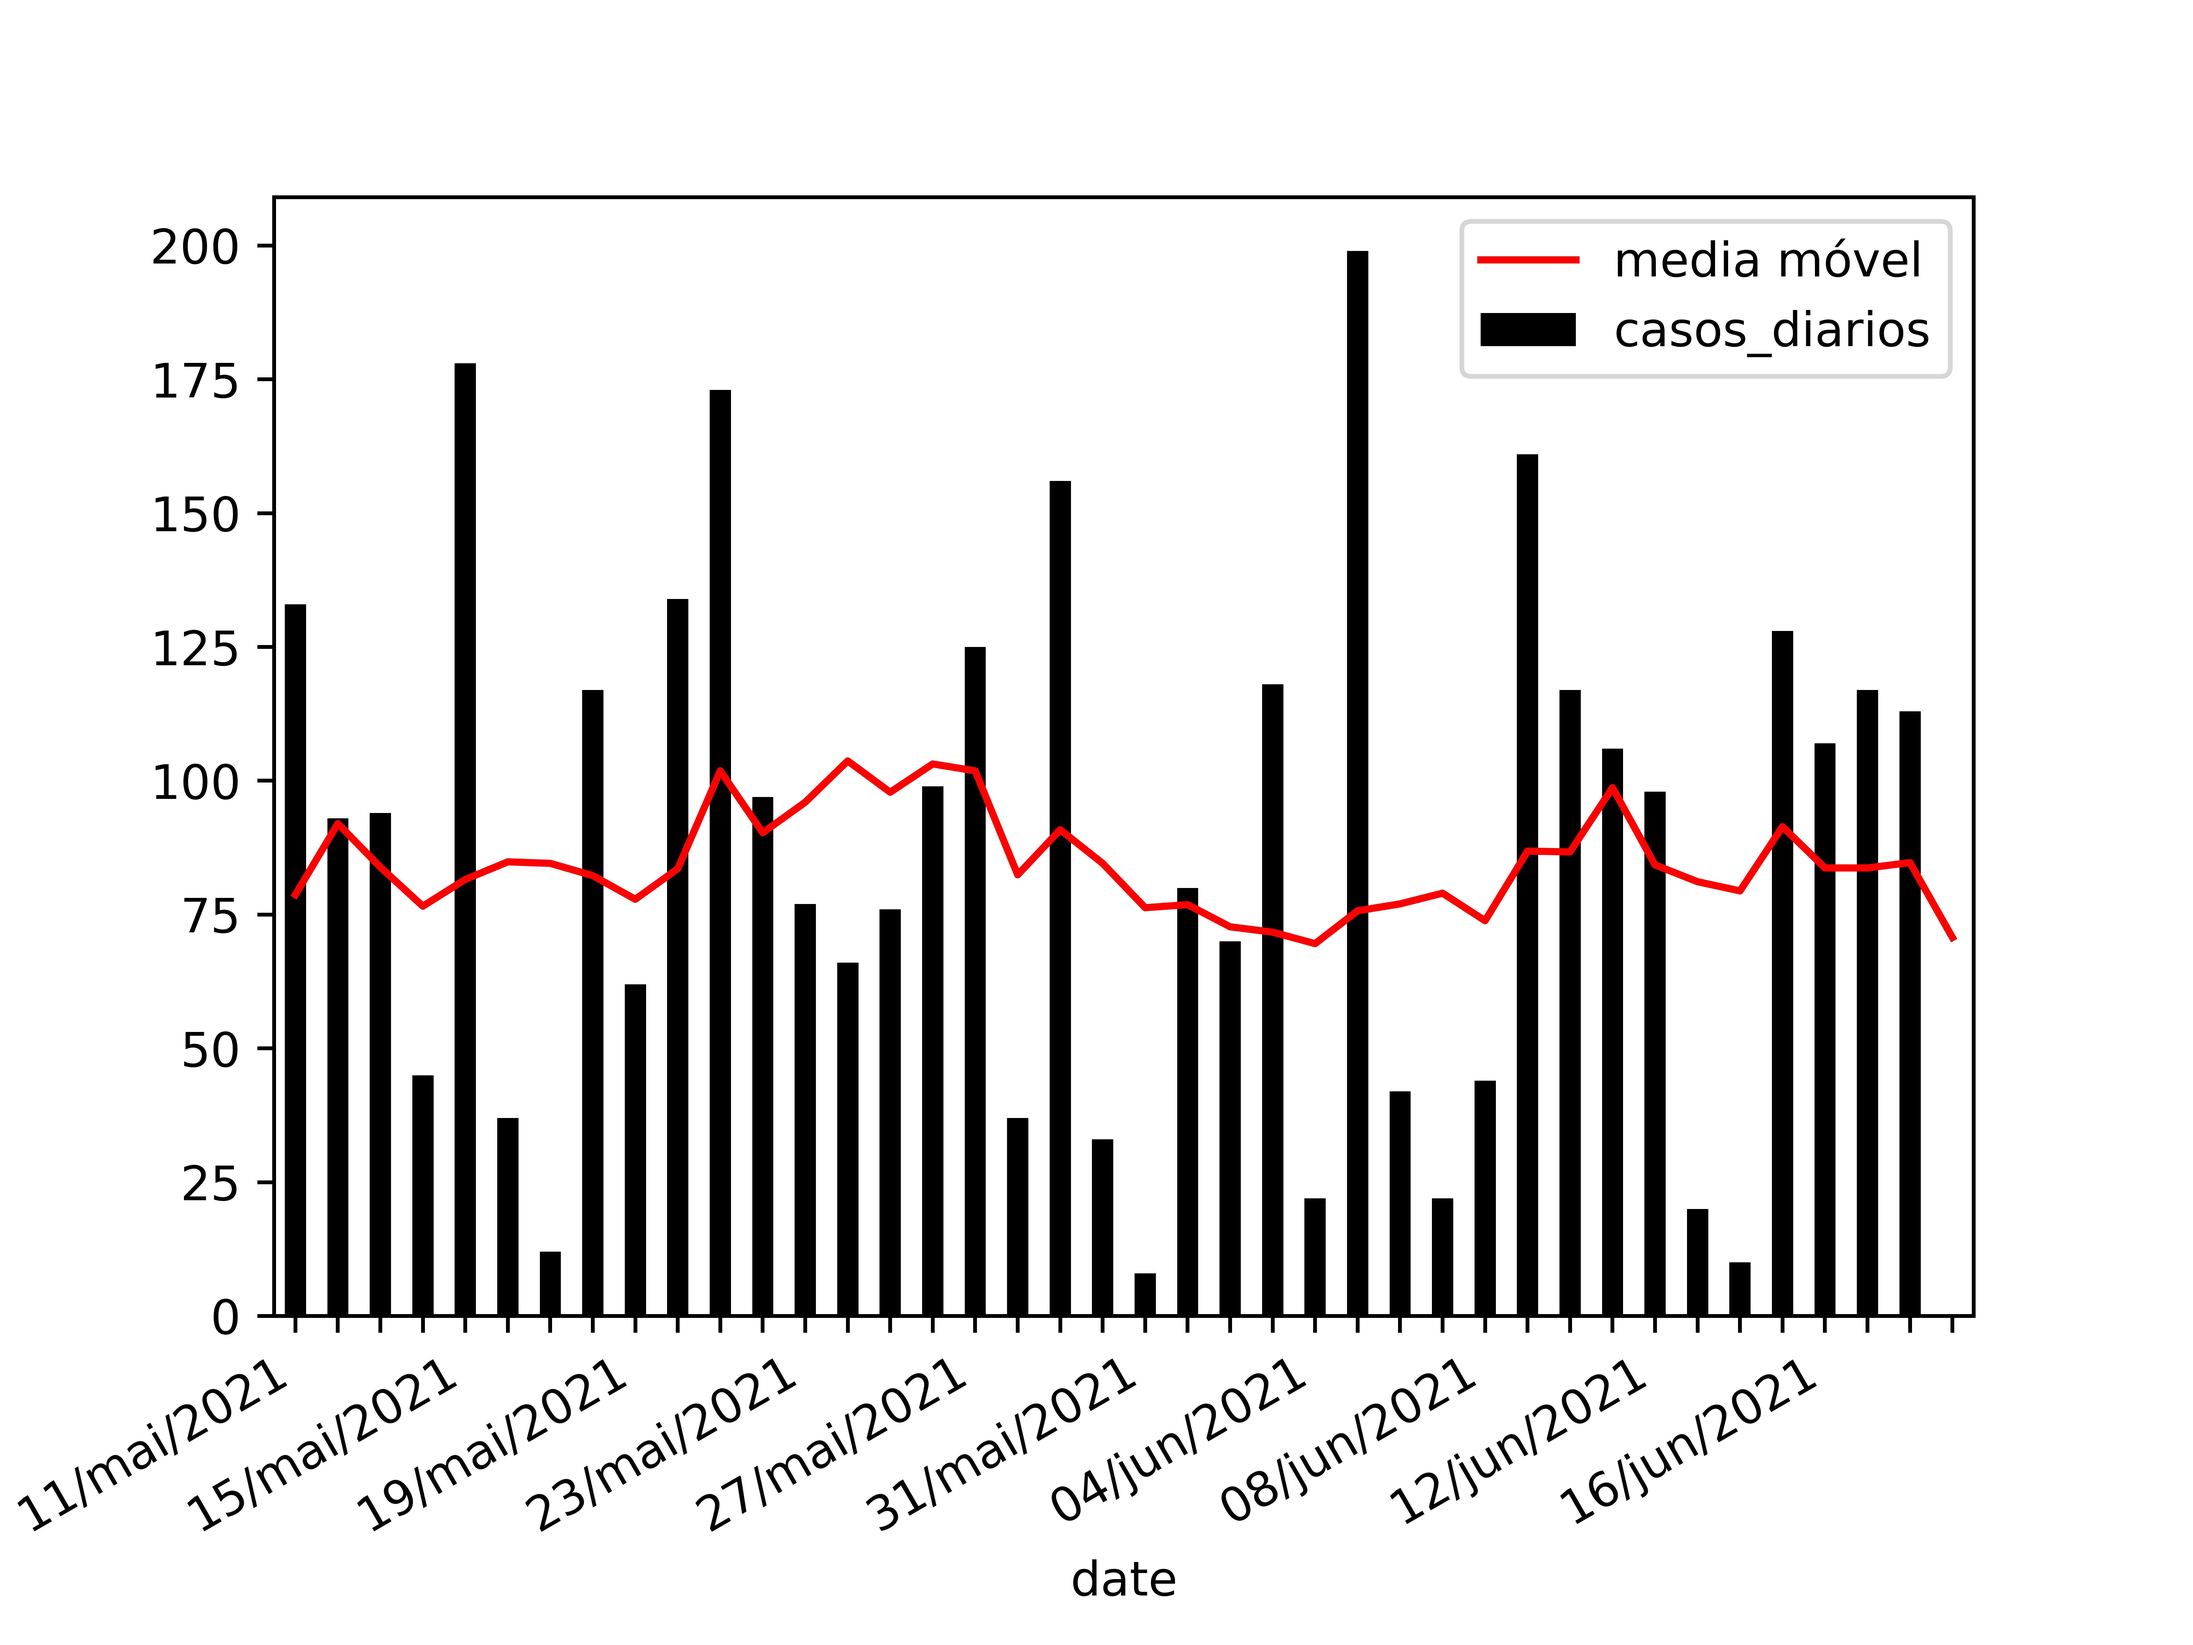
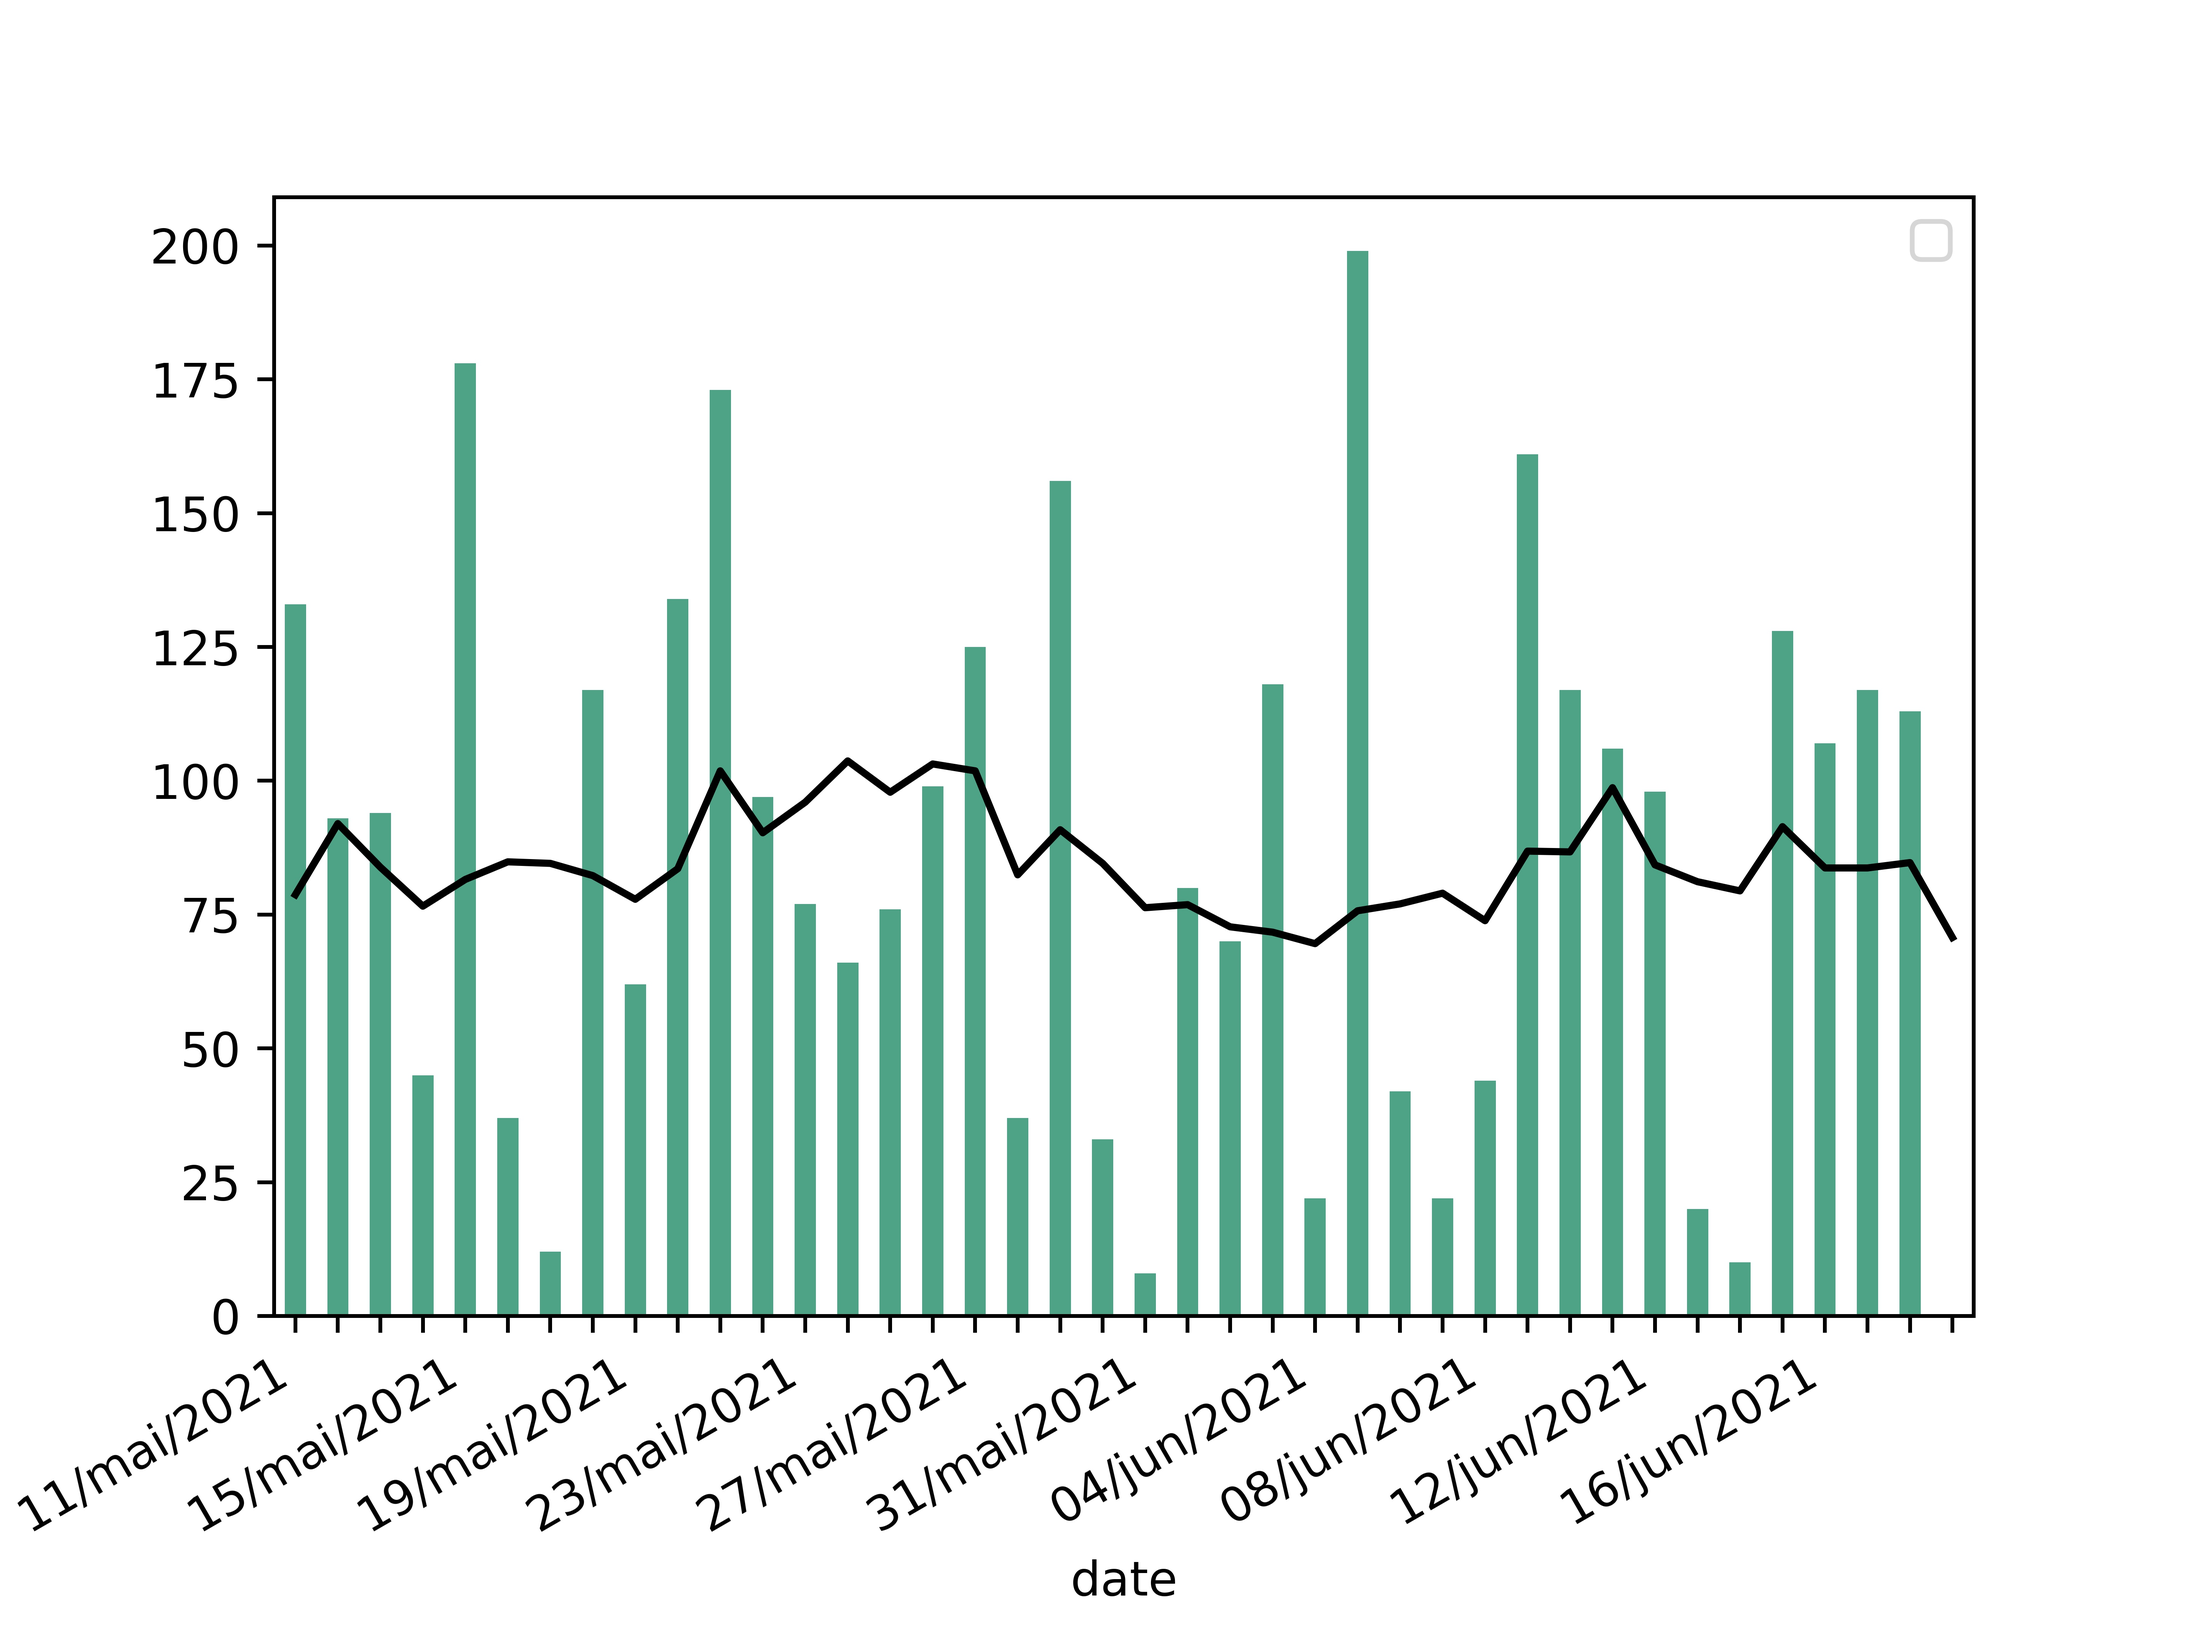
deixando a API arrumadinha

Changed region(s): [[0.125, 0.1562, 0.9062, 0.8125], [0.6562, 0.125, 0.9062, 0.2188]]

diff --git a/covidbr/get_data/work_data.py b/covidbr/get_data/work_data.py
@@ -7,9 +7,6 @@ from covidbr.statistical_functions.bases import mov_average, per_size,percent_ba
 import pandas as pd
 import numpy as np
 import os
-from PIL import ImageFont
-from PIL import ImageDraw 
-from PIL import Image
 
 
 #api_io = login_io.API_io
@@ -130,75 +127,4 @@ class data_from_city:
         return self.media_movel_cases
 
 
-    def create_painel(self,limit_period=15):
-        size = limit_period
-
-        img = Image.open("painel_covid.jpg").convert('RGB')
-        draw = ImageDraw.Draw(img)
-        ## adding date update in the image ##
-        font = ImageFont.truetype("arial_unicode.ttf",18)
-        draw.text((150,150),self.date[-1],'#8b9bae',font=font)
-        ## adding the name city ##
-        font = ImageFont.truetype("arial_unicode.ttf",18)
-        draw.text((35,200),f'Cidade: {self.city} {self.state}','#8b9bae',font)
-        
-        ### creating the painel imagefor deaths ###
-        font = ImageFont.truetype("arial_unicode.ttf", 40)
-        draw.text((460, 320),self.all_deaths_string,'#8e43b5',font=font)
-        ## 24h ##
-        font = ImageFont.truetype("arial_unicode.ttf", 20)
-        draw.text((700, 245),' 24h','#8e43b5',font=font)
-        font = ImageFont.truetype("arial_unicode.ttf", 35)
-        draw.text((700, 265),f' {self.mortes_diarias[-1]}','#8e43b5',font=font)
-        ## 15 days ##
-        font = ImageFont.truetype("arial_unicode.ttf", 20)
-        draw.text((700, 320),f'{size} dias','#8e43b5',font=font)
-        font = ImageFont.truetype("arial_unicode.ttf", 35)
-        sum_deaths_period = list(f'{sum(self.mortes_diarias[-size:])}')
-        if len(sum_deaths_period) >= 4:
-            sum_deaths_period.insert(-3,'.')
-        sum_deaths_period=''.join(sum_deaths_period)
-        draw.text((700, 340),f' {sum_deaths_period}','#8e43b5',font=font)
-        ## percent variation ##
-        font = ImageFont.truetype("arial_unicode.ttf", 20)
-        #font=ImageFont.truetype('/usr/share/fonts/truetype/msttcorefonts/Arial.ttf', 16)
-        draw.text((680, 400),'variância móvel','#8e43b5',font=font)
-        font = ImageFont.truetype("arial_unicode.ttf", 35)
-        draw.text((690, 420),f'{self.percent_deaths}%','#8e43b5',font=font)
-        
-         ### creating the painel image for cases ###
-        font = ImageFont.truetype("arial_unicode.ttf", 40)
-        draw.text((60, 320),self.all_cases_string,'#4ea286',font=font)
-        ## 24h ##
-        font = ImageFont.truetype("arial_unicode.ttf", 20)
-        draw.text((290, 245),' 24h','#4ea286',font=font)
-        font = ImageFont.truetype("arial_unicode.ttf", 35)
-        draw.text((290, 265),f'{self.casos_diarios[-1]}','#4ea286',font=font)
-        ## 15 days ##
-        font = ImageFont.truetype("arial_unicode.ttf", 20)
-        draw.text((290, 320),f' {size} dias','#4ea286',font=font)
-        font = ImageFont.truetype("arial_unicode.ttf", 35)
-        sum_cases_period = list(f'{sum(self.casos_diarios[-size:])}')
-        if len(sum_cases_period) >= 4:
-            sum_cases_period.insert(-3,'.')
-        sum_cases_period=''.join(sum_cases_period)
-        draw.text((290, 340),sum_cases_period,'#4ea286',font=font)
-        ## percent variation ##
-        font = ImageFont.truetype("arial_unicode.ttf", 20)
-        #font=ImageFont.truetype('/usr/share/fonts/truetype/msttcorefonts/Arial.ttf', 16)
-        draw.text((260, 400),'variância móvel','#4ea286',font=font)
-        font = ImageFont.truetype("arial_unicode.ttf", 35)
-        draw.text((290, 420),f'{self.percent_cases}%','#4ea286',font=font)
-
-        
-        img.save('sample-out.jpg')
-        
-        return f'''
-                    "date_update": {self.date[-1]},
-                    "all_confirmeds": {self.casos[-1]},
-                    "all_deaths": {self.mortes[-1]},
-                    "variation_deaths_movel": {self.percent_deaths},
-                    "percent_variation_death": {self.percent_all_deaths},
-                    "variation_cases_movel": {self.percent_cases},
-                    ""
-                '''
+    

diff --git a/covidbr/plot_data/painel.py b/covidbr/plot_data/painel.py
@@ -1,0 +1,84 @@
+from PIL import ImageFont
+from PIL import ImageDraw 
+from PIL import Image
+from covidbr.log.logging import log
+
+
+
+
+#### painel covidb #### 
+def create_painel(data,limit_period:str=15,path_file:str='painel_covid.jpg'):
+        log('creating the image')
+        self = data
+        size = limit_period
+
+        img = Image.open("painel_covid.jpg").convert('RGB')
+        draw = ImageDraw.Draw(img)
+        ## adding date update in the image ##
+        font = ImageFont.truetype("arial_unicode.ttf",18)
+        draw.text((150,150),self.date[-1],'#8b9bae',font=font)
+        ## adding the name city ##
+        font = ImageFont.truetype("arial_unicode.ttf",18)
+        draw.text((35,200),f'Cidade: {self.city} {self.state}','#8b9bae',font)
+        
+        ### creating the painel imagefor deaths ###
+        font = ImageFont.truetype("arial_unicode.ttf", 40)
+        draw.text((460, 320),self.all_deaths_string,'#8e43b5',font=font)
+        ## 24h ##
+        font = ImageFont.truetype("arial_unicode.ttf", 20)
+        draw.text((700, 245),' 24h','#8e43b5',font=font)
+        font = ImageFont.truetype("arial_unicode.ttf", 35)
+        draw.text((700, 265),f' {self.mortes_diarias[-1]}','#8e43b5',font=font)
+        ## 15 days ##
+        font = ImageFont.truetype("arial_unicode.ttf", 20)
+        draw.text((700, 320),f'{size} dias','#8e43b5',font=font)
+        font = ImageFont.truetype("arial_unicode.ttf", 35)
+        log('ateh aqui blz,')
+        sum_deaths_period = list(f'{sum(self.mortes_diarias[-size:])}')
+        if len(sum_deaths_period) >= 4:
+            sum_deaths_period.insert(-3,'.')
+        sum_deaths_period=''.join(sum_deaths_period)
+        draw.text((700, 340),f' {sum_deaths_period}','#8e43b5',font=font)
+        ## percent variation ##
+        font = ImageFont.truetype("arial_unicode.ttf", 20)
+        #font=ImageFont.truetype('/usr/share/fonts/truetype/msttcorefonts/Arial.ttf', 16)
+        draw.text((680, 400),'variância móvel','#8e43b5',font=font)
+        font = ImageFont.truetype("arial_unicode.ttf", 35)
+        draw.text((690, 420),f'{self.percent_deaths}%','#8e43b5',font=font)
+        
+         ### creating the painel image for cases ###
+        font = ImageFont.truetype("arial_unicode.ttf", 40)
+        draw.text((60, 320),self.all_cases_string,'#4ea286',font=font)
+        ## 24h ##
+        font = ImageFont.truetype("arial_unicode.ttf", 20)
+        draw.text((290, 245),' 24h','#4ea286',font=font)
+        font = ImageFont.truetype("arial_unicode.ttf", 35)
+        draw.text((290, 265),f'{self.casos_diarios[-1]}','#4ea286',font=font)
+        ## 15 days ##
+        font = ImageFont.truetype("arial_unicode.ttf", 20)
+        draw.text((290, 320),f' {size} dias','#4ea286',font=font)
+        font = ImageFont.truetype("arial_unicode.ttf", 35)
+        sum_cases_period = list(f'{sum(self.casos_diarios[-size:])}')
+        if len(sum_cases_period) >= 4:
+            sum_cases_period.insert(-3,'.')
+        sum_cases_period=''.join(sum_cases_period)
+        draw.text((290, 340),sum_cases_period,'#4ea286',font=font)
+        ## percent variation ##
+        font = ImageFont.truetype("arial_unicode.ttf", 20)
+        #font=ImageFont.truetype('/usr/share/fonts/truetype/msttcorefonts/Arial.ttf', 16)
+        draw.text((260, 400),'variância móvel','#4ea286',font=font)
+        font = ImageFont.truetype("arial_unicode.ttf", 35)
+        draw.text((290, 420),f'{self.percent_cases}%','#4ea286',font=font)
+
+        
+        img.save(path_file)
+        
+        return f'''
+                    "date_update": {self.date[-1]},
+                    "all_confirmeds": {self.casos[-1]},
+                    "all_deaths": {self.mortes[-1]},
+                    "variation_deaths_movel": {self.percent_deaths},
+                    "percent_variation_death": {self.percent_all_deaths},
+                    "variation_cases_movel": {self.percent_cases},
+                    ""
+                '''

diff --git a/covidbr/plot_data/plotting.py b/covidbr/plot_data/plotting.py
@@ -1,13 +1,17 @@
-import matplotlib.pyplot as plt
-from matplotlib import ticker
+
+from covidbr.log.logging import log
 from covidbr.log import date_base
 from covidbr.get_data import data_from_city as dc
 from covidbr.statistical_functions.bases import mov_average
 import numpy as np
-
+import matplotlib.pyplot as plt
+from matplotlib import ticker
 
 ############### plotting media in the maxim period limited ###################
-def plot_media_cases(data:dc,limit_period:int=0,title:str=None,show:bool=True,path_dir:str=f'data/'):
+def plot_media_cases(data:dc,limit_period:int=0,color_line:str='red',
+    title:str=None,show:bool=True,color_bar:str='black',
+    path_dir:str=f'data/',label_line:str='',label_bar:str='',
+    grid_y:bool=False,grid_x:bool=False):
     '''
     sumary:
 
@@ -36,15 +40,19 @@ def plot_media_cases(data:dc,limit_period:int=0,title:str=None,show:bool=True,pa
     city = data.city
     state = data.state
 
-    ax = dados_bar.plot(x='date',y='casos_diarios',kind='bar',color='black')
+    ax = dados_bar.plot(x='date',y='casos_diarios',label=label_bar,kind='bar',color=color_bar)
     print(f'encontrando a média móvel de casos confirmados em {city}-{state}...')
     
     #media = calcSma(casos_diarios,7)
     media_casos = media
     #print((media.max))
     plt.ylim((0,max(casos_diarios[-limit_period:])+10))
+    if grid_x:
+        plt.grid(axis='x')
+    if grid_y:
+        plt.grid(axis='y')
     date = dados_bar['date']
-    plt.plot(date,media,label='media móvel',c='red')
+    plt.plot(date,media,label=label_line,c=color_line)
     #plt.grid()
 
     ticklabels = ['']*len(dados_bar.index)
@@ -69,7 +77,10 @@ def plot_media_cases(data:dc,limit_period:int=0,title:str=None,show:bool=True,pa
 
 
 ################ tools for plotting of deaths data period limited ############### 
-def plot_media_deaths(data:dc,limit_period:int=0,title:str=None,show:bool=True,path_dir:str='data/'):
+def plot_media_deaths(data:dc,limit_period:int=0,
+title:str=None,show:bool=True,path_dir:str='data/',
+color_line:str='red',color_bar:str='black',
+label_line:str='',label_bar:str=''):
     '''
     sumary:
 
@@ -99,9 +110,9 @@ def plot_media_deaths(data:dc,limit_period:int=0,title:str=None,show:bool=True,p
     city = data.city
     state = data.state
 
-    ax = dados_bar.plot(x='date',y='mortes_diarias',kind='bar',color='black')
+    ax = dados_bar.plot(x='date',y='mortes_diarias',labell=label_bar,kind='bar',color=color_bar)
     date = dados_bar['date']
-    plt.plot(date,media,label='media movel',c='red')
+    plt.plot(date,media,label=label_line,c=color_line)
 
     ticklabels = ['']*len(dados_bar.index)
     ticklabels[::int(limit_period/10)] = dados_bar['date'][::int(limit_period/10)]
@@ -117,3 +128,4 @@ def plot_media_deaths(data:dc,limit_period:int=0,title:str=None,show:bool=True,p
 
     plt_casos = plt
     return plt_casos
+

diff --git a/insta_bot.py b/insta_bot.py
@@ -1,0 +1,25 @@
+#!/usr/bin/env python3
+# -*- coding: utf-8 -*-
+import os
+
+if(os.path.isdir('config')):
+    terminal = os.system
+    print('apagando pasta config...')
+
+    #apagando a pasta config
+    terminal('rm config/*')
+    terminal('rm config/log/*')
+    terminal('rmdir config/log')
+    terminal('rmdir config')
+
+from instabot import Bot
+#from instabot import InstaBot as 
+bot = Bot()
+
+username:str = 'gpftc_ifsertao'
+password:str = 'imaginando912'
+
+bot.login(username=username,password=password)#,use_cookie=True)
+#print((bot.get_timeline_medias()))
+#print(f'são {len(bot.followers)} seguidores no total')
+bot.upload_photo(photo='sample-out.jpg',caption='apenas um teste em #python')

diff --git a/covidbr/__init__.py b/covidbr/__init__.py
@@ -3,12 +3,13 @@ from covidbr.io_api import login_io
 from covidbr.get_data import data_from_city
 from covidbr.plot_data.plotting import plot_media_cases
 from covidbr.plot_data.plotting import plot_media_deaths
-#rom covidbr.plot_data.painel import create_painel
+from covidbr.plot_data.painel import create_painel
 
 #from .logger import logger
 
 all = [data_from_city
        ,login_io,logging,
        plot_media_cases,
-       plot_media_deaths
+       plot_media_deaths,
+       create_painel
 ]

diff --git a/test_plot.py b/test_plot.py
@@ -11,5 +11,6 @@ city = 'Petrolina PE'
 data_covid = cb.data_from_city(city)
 
 #plotando
-cb.plot_media_cases(data=data_covid,limit_period=40)
+cb.plot_media_cases(data=data_covid,limit_period=60,
+color_bar='#4ea286',color_line='black')
 

diff --git a/test_data.py b/test_data.py
@@ -2,4 +2,4 @@ import covidbr as cb
 cb.logging.show_console = True
 place = 'Petrolina PE'
 data_pet = cb.data_from_city(place)
-print(data_pet.create_painel())
+print(cb.create_painel(data_pet))
